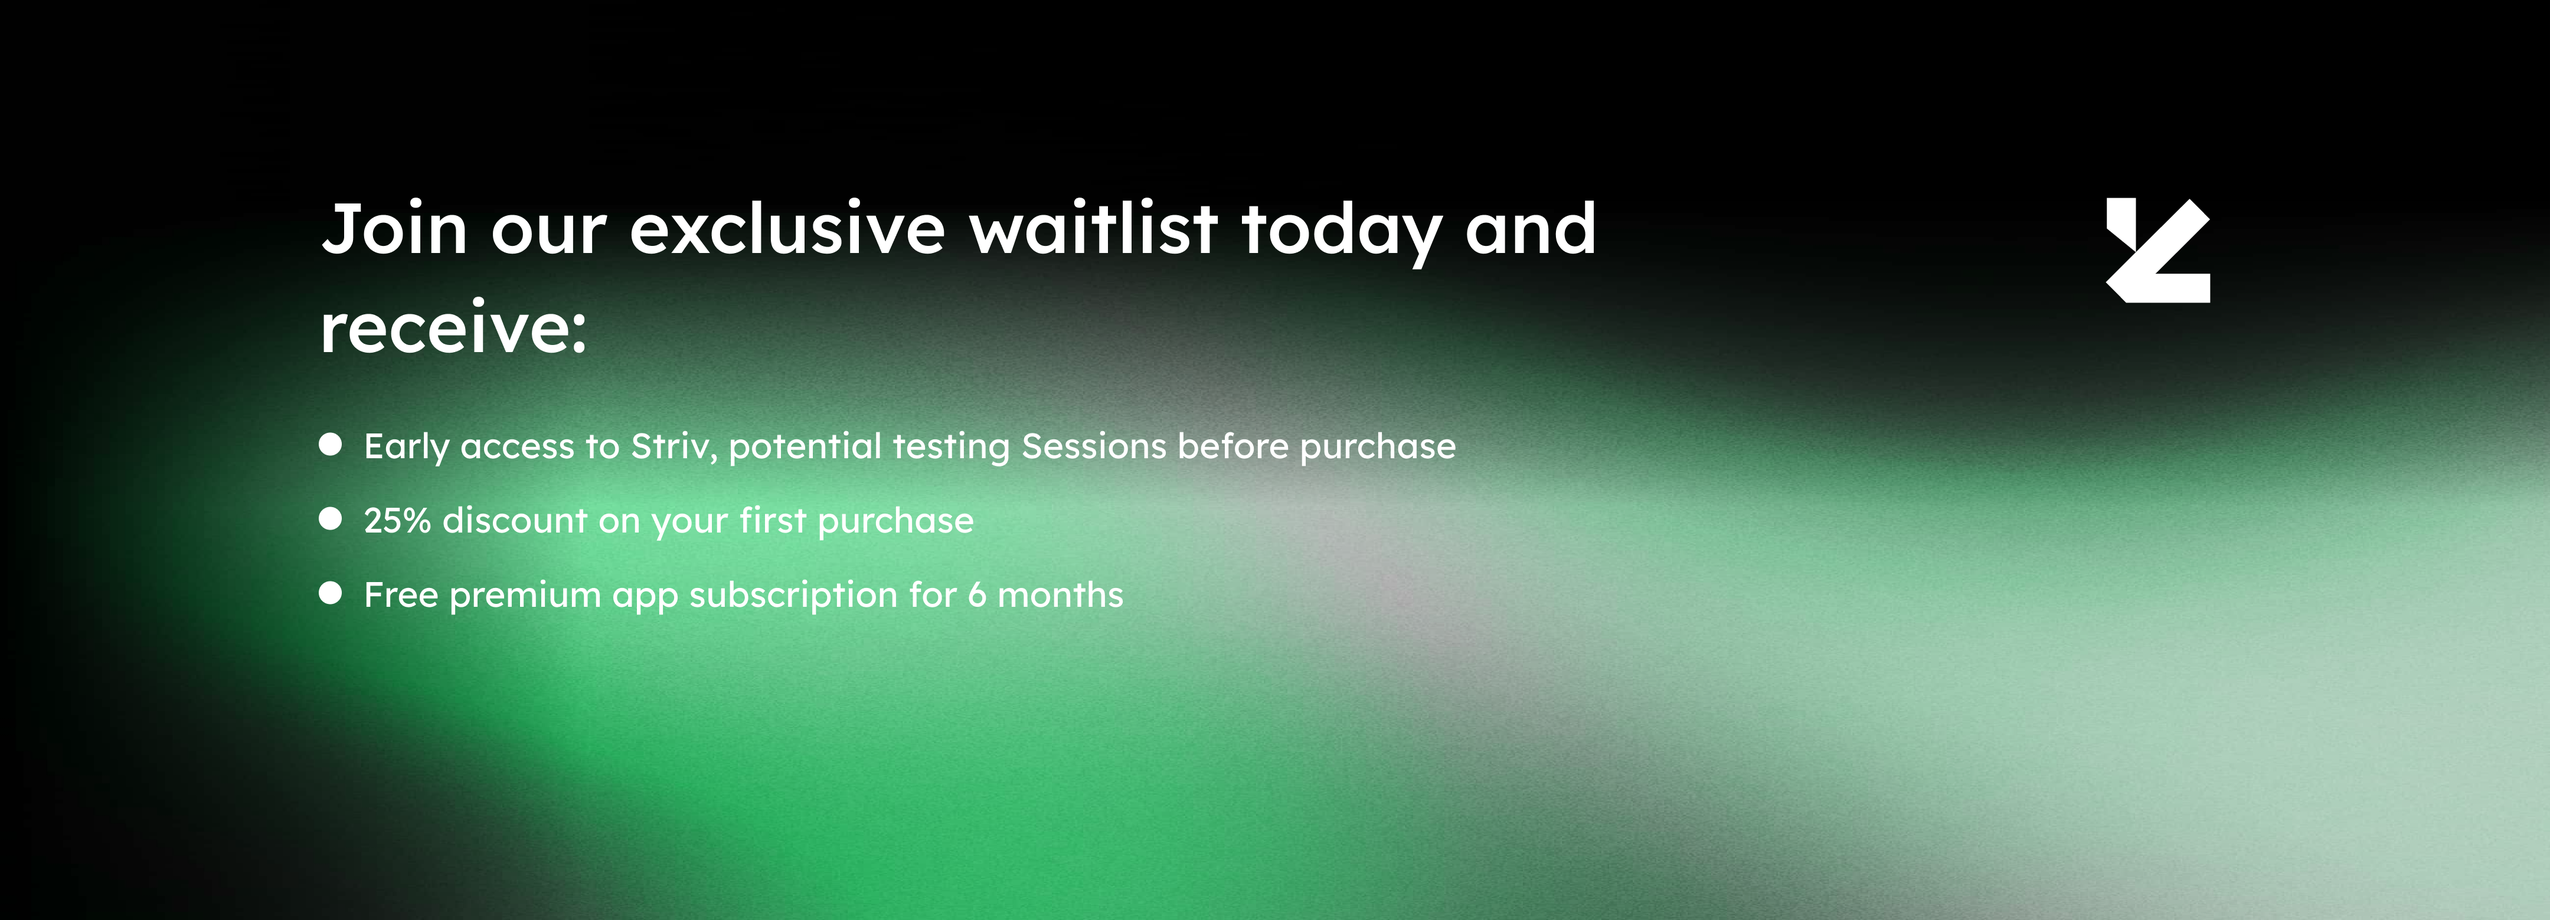
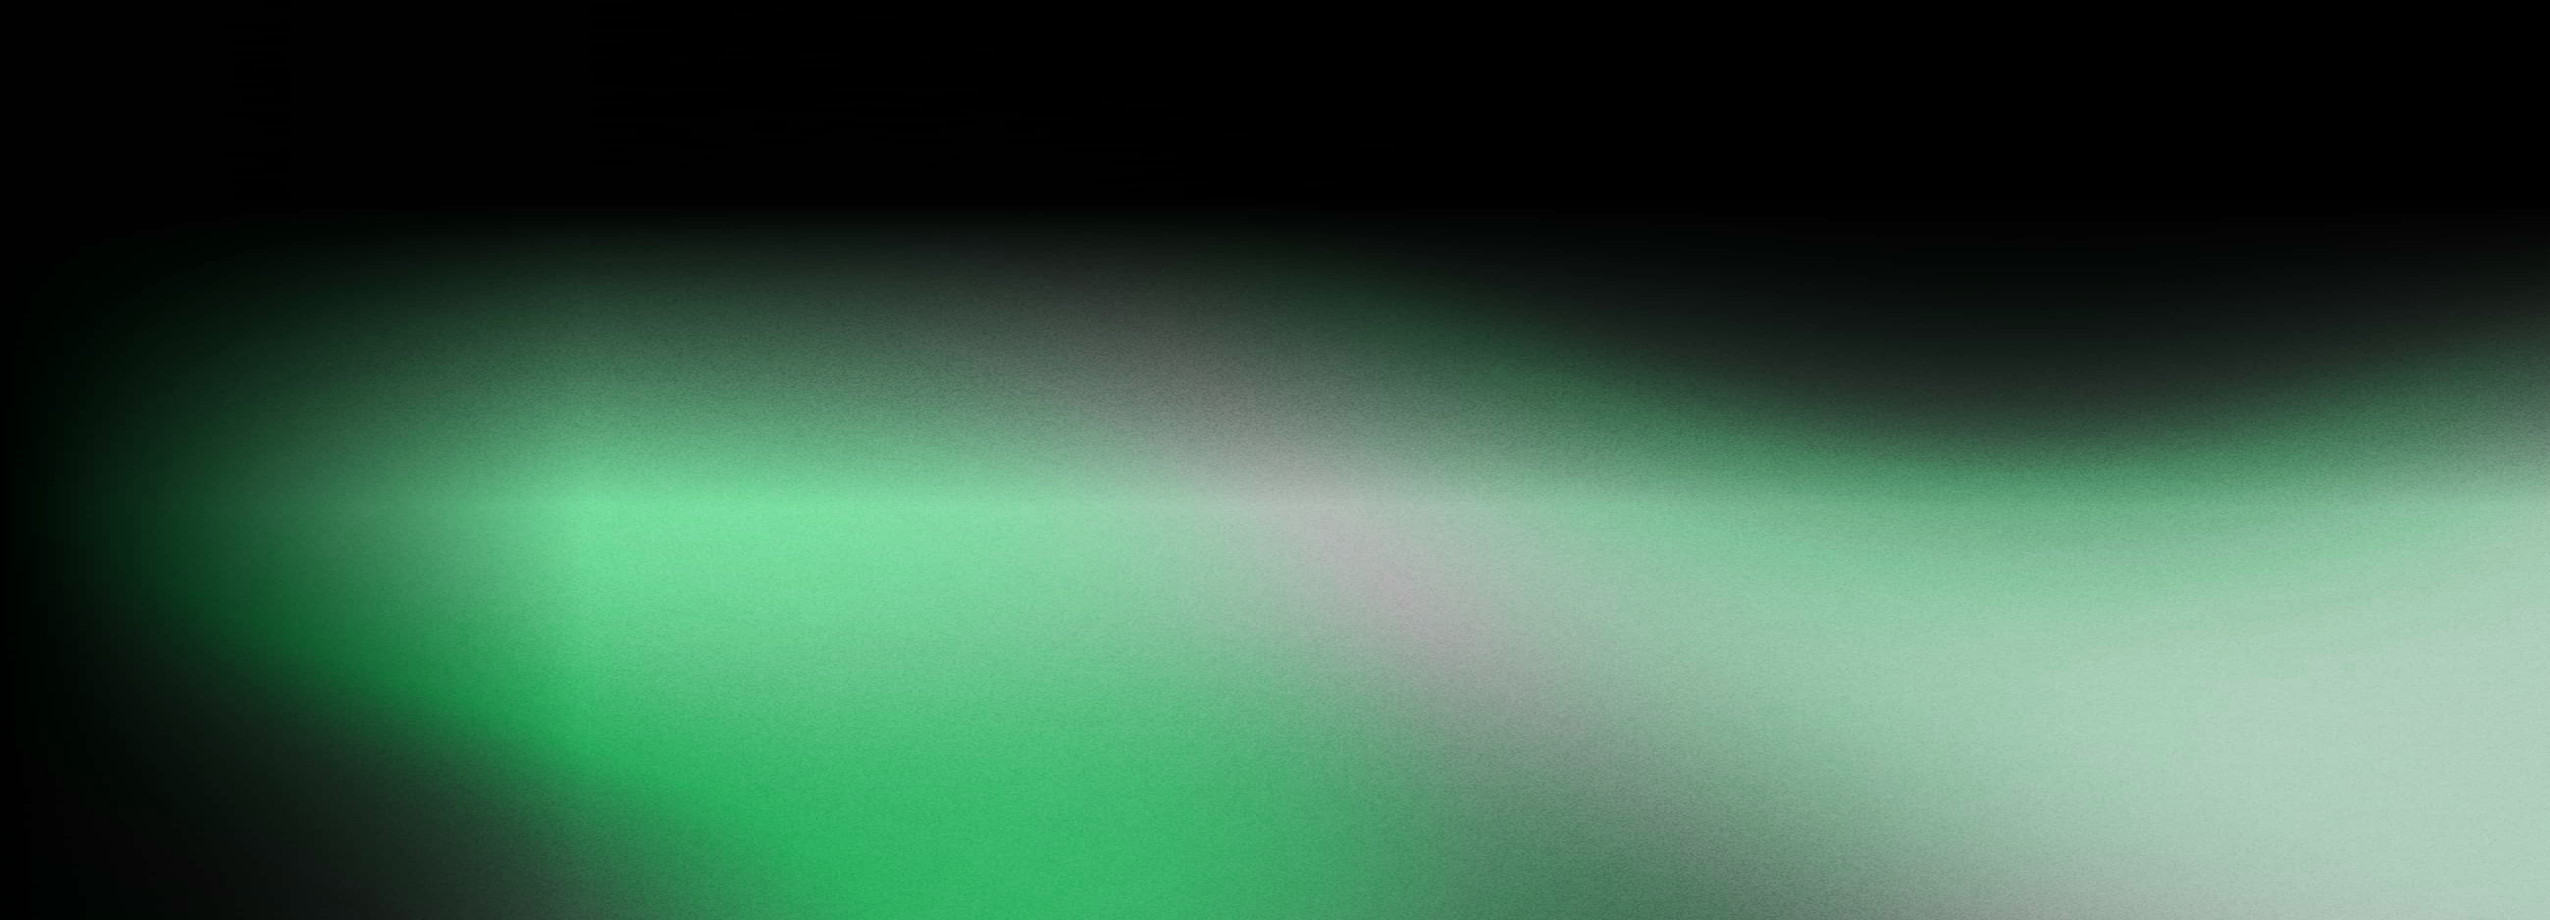
updated

diff --git a/index.html b/index.html
@@ -7,6 +7,7 @@
     <link rel="preconnect" href="https://fonts.googleapis.com">
     <link rel="preconnect" href="https://fonts.gstatic.com" crossorigin>
     <link rel="stylesheet" href="https://fonts.googleapis.com/css2?family=Lexend:wght@100..900&display=swap">
+    <link rel="stylesheet" href="https://fonts.googleapis.com/css2?family=Bai+Jamjuree:wght@400;700&display=swap">
     <title>Striv - Personal AI Running Coach</title>
     <script src="https://cdn.tailwindcss.com"></script>
     <script>
@@ -86,7 +87,51 @@
             }
         ]
         window.onload = ()=> {
-           
+            let windowWidth = window.innerWidth
+            let windowHeight = window.innerHeight
+            let isNotMobile = windowWidth > 640
+
+            const items = document.querySelectorAll('li[data-image]');
+            const displayImage = document.getElementById('displayImage');
+
+            items.forEach((item, index, arr)=> {
+                let arrowEl = item.getElementsByClassName('arrow')[0]        
+                if(isNotMobile) {
+                    arrowEl.className = `arrow h-9 w-9 mt-1 ${index ? 'hidden' : ''}`
+                    arrowEl.src = "assets/arrow-right-top-bold.svg"
+                } else {
+                    arrowEl.className = `arrow w-[13px] h-[13px] ${index ? 'hidden' : ''}`
+                    arrowEl.src = "assets/arrow-right-top.svg"
+                }
+                item.addEventListener('mouseover', () => {
+                    const imageName = item.getAttribute('data-image');
+                    displayImage.src = imageName;
+
+                    
+                    arr[0].getElementsByClassName('arrow')[0].classList.add('hidden');
+                    arr[0].getElementsByClassName('desc')[0].classList.add('hidden');
+                    item.getElementsByClassName('arrow')[0].classList.remove('hidden');
+                    item.getElementsByClassName('desc')[0].classList.remove('hidden');
+                });
+                item.addEventListener('mouseout', () => {
+                    item.getElementsByClassName('arrow')[0].classList.add('hidden');
+                    item.getElementsByClassName('desc')[0].classList.add('hidden');
+                    arr[0].getElementsByClassName('arrow')[0].classList.remove('hidden');
+                    arr[0].getElementsByClassName('desc')[0].classList.remove('hidden');
+                    
+                    displayImage.src = arr[0].getAttribute('data-image');
+                })
+            });
+
+            
+            
+            if (isNotMobile) {
+                let aspectRatio = 1.8
+                let maxWidth = windowHeight * 1.8
+                let rootEle = document.getElementById('root');
+                rootEle.style.maxWidth = maxWidth + 'px';
+            }
+        
             const listContainer = document.getElementById('faq-question-container');
             faqs.forEach((item, index) => {
                 const itemDiv = document.createElement('div');
@@ -194,7 +239,7 @@
             background: var(--green-37EC7F);
 
             color: #000;
-            font-family: "Bai Jamjuree";
+            font-family: "";
             font-size: 12px;
             font-style: normal;
             font-weight: 400;
@@ -219,6 +264,14 @@
             font-weight: 600;
             line-height: 140%; /* 78.4px */
             letter-spacing: -0.339px;
+        }
+        .text-40-lexend {
+            color: #FFF;
+            font-family: Lexend;
+            font-size: 40px;
+            font-style: normal;
+            font-weight: 500;
+            line-height: 140%; /* 56px */
         }
         .border-bottom-white {
             border-bottom: 0.281px solid #FFF;
@@ -287,23 +340,31 @@
             font-weight: 700;
             line-height: 140%;
         }
-        input {
-            background-color: transparent;
+        input.transparent {
+            background-color: transparent !important;
             border-bottom: 1px solid #FFF;
             padding: 20px 0px;
             font-family: Lexend;
             caret-color: white;
         }
-        input::placeholder {
+        input.transparent::placeholder {
             outline: none;
             color: white;
             font-size: 14px;
         }
-        input:focus {
+        input.transparent:active, input.transparent:focus {
             outline: none;
             font-size: 24px;
             color: white;
+            background-color: transparent !important;
         }
+        /* 针对自动填充的样式 */
+        input:-internal-autofill-previewed,
+        input:-internal-autofill-selected {
+            -webkit-text-fill-color: #FFFFFF !important;
+            transition: background-color 5000s ease-in-out 0s !important;
+        }
+
         .grid-col-3 {
             display: grid;
             grid-template-columns: 2fr 1fr;
@@ -368,18 +429,26 @@
         .toggle-btn {
            background: url(assets/plus-white.svg);
         }
+
+        .white-filter {
+            filter: invert(50%) brightness(200%);
+        }
+
+        .list-active {
+            font-weight: bold;
+        }
     </style>
 </head>
 <body>
-    <div class="root">
+    <div class="root" id="root">
         <div class="relative">
-            <img class="aspect-[0.95] sm:aspect-[1.8] sm:object-fill object-cover" src="./assets/section-0-bg.png">
-            <div class="left-8 sm:left-16 top-6 right-0 absolute">
+            <img class="aspect-[0.95] sm:aspect-[1.8] sm:object-fill object-cover " src="./assets/section-0-bg.png">
+            <div class="left-8 sm:left-[4.4%] top-[6.1%] right-0 absolute">
                 <div class="flex flex-row sm:h-16 items-center">
                     <img src="./assets/logo.svg" class="h-[15px] aspect-[1.25] sm:h-[27px]">
                     <img src="./assets/striv.svg" class="h-[12px] aspect-[3.72] ml-2 sm:h-[22px]">
                 </div>
-                <div class="mt-[30px] sm:mt-[100px] flex flex-col items-start">
+                <div class="mt-[30px] sm:mt-[7.5%] flex flex-col items-start">
                     <p class="text-14-lexend text-white sm:text-[34px]">Get elite-level coaching with every step</p>
                     <p class="uppercase text-28-lexend text-white sm:text-[56px]">Personal 
                         <br class="sm:hidden"> 
@@ -388,17 +457,16 @@
                         <br>
                         Just For you
                     </p>
-                    <button class="mt-[112px] join-btn sm:p-6 sm:rounded-[50px] sm:text-[20px]">
+                    <button class="mt-[10.1%] join-btn sm:p-6 sm:rounded-[50px] sm:text-[20px]">
                         Join the Waitlist Now
                     </button>
                 </div>
             </div>
         </div>
         <div class="flex flex-col items-start sm:flex-row my-10 sm:justify-between">
-            <p class="text-20-lexend mx-6">Get elite-level coaching with every run <br class="hidden sm:inline"> or ride. Striv brings professional <br class="hidden sm:inline"> training to your feet.</p>
-            <button class="mt-4 ml-6 ">
-                <img class="" src="./assets/arrow-right-bottom.svg">
-            </button>
+            <p class="text-20-lexend mx-6 sm:text-[40px]">Get elite-level coaching with every run <br class="hidden sm:inline"> or ride. Striv brings professional <br class="hidden sm:inline"> training to your feet.</p>
+            <img class="mt-4 ml-6 aspect-square w-[48px] sm:hidden" src="./assets/arrow-right-bottom.svg">
+            <img class="mt-4 ml-6 aspect-square w-[83px] sm:block hidden" src="./assets/arrow-left-bottom.svg">
         </div>
         <div class="mx-6 flex flex-row aspect-[1.3] sm:aspect-video justify-center items-center sm:px-[30px] sm:py-[34px]">
             <div class="h-full">
@@ -406,10 +474,10 @@
                     <img src="./assets/logo-fill-black-rounded.png" class="aspect-square w-[56px] sm:w-[116px]">
                 </div>
                 <div class="h-[4%] sm:h-[2%]"></div>
-                <div class="aspect-[0.74] h-[48%] sm:h-[49%] relative s2-container bg-color-green63 flex justify-center items-center sm:rounded-xl">
-                    <p class="absolute top-[10px] sm:top-[36px] text-12-lexend sm:text-2xl text-white">Multi-device <br> application</p>
-                    <img src="./assets/apple-watch.png" class="aspect-[0.6] w-[56px] sm:w-[135px] absolute bottom-[11px] sm:bottom-[36px]">
-                </div>
+                <img src="assets/multi-device-watch.png" class="aspect-[0.74] h-[48%] sm:h-[49%] relative s2-container bg-color-green63 flex justify-center items-center sm:rounded-xl">
+                    <!-- <p class="absolute top-[10px] sm:top-[36px] text-12-lexend sm:text-2xl text-white">Multi-device <br> application</p>
+                    <img src="./assets/apple-watch.png" class="aspect-[0.6] w-[56px] sm:w-[135px] absolute bottom-[11px] sm:bottom-[36px]"> -->
+                </img>
             </div>
             <div class="flex-1 h-full ml-[14px]">
                 <img src="./assets/strivinsole.png" alt="" class="aspect-[1.36] h-[67%] sm:h-[68%] object-fill rounded sm:rounded-xl">
@@ -430,31 +498,40 @@
             Features</p>
         <p class="text-64-lexend mt-12 mb-6 uppercase text-white hidden sm:block sm:mb-[160px] text-center">Revolutionary Technology</p>    
         <div class="flex sm:flex-row flex-col mx-6 sm:items-center">
-            <div class="text-color-white flex-1">
-                <div class="flex border-bottom-white py-3 group">
-                    <a class="no-underline hover:font-bold uppercase text-14-lexend text-left sm:text-[32px]">High Density  sensor</a>
-                    <!-- <img src="./assets/arrow-right-top.svg" class="h-[13px] w-[13px] sm:hidden"></img> -->
-                    <img src="./assets/arrow-right-top-bold.svg" class="h-9 w-9 sm:group-hover:block hidden mt-1"></img>
-                </div>
-                <div class="flex border-bottom-white py-3 group">
-                    <a class="no-underline hover:font-bold uppercase text-14-lexend text-left sm:text-[32px]">Multi-device</a>
-                    <!-- <img src="./assets/arrow-right-top.svg" class="h-[13px] w-[13px] sm:hidden"></img> -->
-                    <img src="./assets/arrow-right-top-bold.svg" class="h-9 w-9 sm:group-hover:block hidden mt-1"></img>
-                </div>
-                <div class="group border-bottom-white">
-                    <div class="flex py-3 flex-row">
-                        <a class="max-sm:flex-1 no-underline text-14-lexend uppercase text-left hover:font-bold sm:text-[32px]">AI Planning for u</a>
-                        <img src="./assets/arrow-right-top.svg" class="h-[13px] w-[13px] sm:hidden group-focus:block"></img>
-                        <img src="./assets/arrow-right-top-bold.svg" class="h-9 w-9 sm:group-hover:block hidden mt-1"></img>
+            <ul class="text-color-white flex-1">
+                <li data-image="assets/high-density-sensor.png" class="flex border-bottom-white group flex-col">
+                   <div class="flex flex-row py-3 ">
+                        <a class="max-sm:flex-1 no-underline hover:font-bold uppercase text-14-lexend text-left sm:text-[32px]">High Density  sensor</a>
+                        <!-- <img src="./assets/arrow-right-top.svg" class="h-[13px] w-[13px] sm:hidden"></img> -->
+                        <img class="arrow h-9 w-9 mt-1 "></img>
+                   </div>
+                   <p class="text-14-lexend text-left font-light pb-3 desc">
+                    Last mile or first mile, fibre or copper, Ethernet or wireless, 20Mbs or 100Gbs - we'll always find the best-performing connectivity to fit your needs and location.
+                    </p>
+                </>
+                <li data-image="assets/multi-device.png" class="flex flex-col border-bottom-white group">
+                    <div class="flex flex-row py-3 ">
+                        <a class="max-sm:flex-1 no-underline hover:font-bold uppercase text-14-lexend text-left sm:text-[32px]">Multi-device</a>
+                        <!-- <img src="./assets/arrow-right-top.svg" class="h-[13px] w-[13px] sm:hidden"></img> -->
+                        <img class="arrow h-9 w-9 mt-1 hidden"></img>
                     </div>
-                    <p class="text-14-lexend text-left font-light pb-3 sm:group-hover:block hidden max-sm:block">
+                    <p class="text-14-lexend text-left font-light pb-3 hidden desc">
                         Last mile or first mile, fibre or copper, Ethernet or wireless, 20Mbs or 100Gbs - we'll always find the best-performing connectivity to fit your needs and location.
                     </p>
-                </div>
-            </div>
+                </li>
+                <li data-image="assets/ai-planning-foru.png" class="group border-bottom-white">
+                    <div class="flex py-3 flex-row">
+                        <a class="max-sm:flex-1 no-underline text-14-lexend uppercase text-left hover:font-bold sm:text-[32px]">AI Planning for u</a>
+                        <img class="arrow h-9 w-9 mt-1 hidden"></img>
+                    </div>
+                    <p class="text-14-lexend text-left font-light pb-3 hidden desc">
+                        Last mile or first mile, fibre or copper, Ethernet or wireless, 20Mbs or 100Gbs - we'll always find the best-performing connectivity to fit your needs and location.
+                    </p>
+                </li>
+            </ul>
             <p class="w-[20px] sm:w-[72px]"></p>
             <img class="aspect-[1.1] sm:hidden mt-5 sm:mt-0" src="./assets/s3-right.png">
-            <img class="aspect-[1.3] h-[555px] hidden sm:block" src="./assets/s3-right-xl.png">
+            <img id="displayImage" class="aspect-[1.3] w-[48%] hidden sm:block" src="assets/high-density-sensor.png">
         </div>    
         <div class="flex flex-row sm:justify-between items-center mx-6 justify-center sm:mt-[180px]">
             <p class="text-24-lexend mt-12 mb-6 uppercase text-white sm:text-[64px] sm:pb-[28px]">How it works</p>
@@ -463,24 +540,24 @@
         <div class=" mx-6 sm:grid sm:grid-cols-[2fr_1fr]">
             <div class="flex flex-row">
                 <div class="bg-color-black08 flex flex-col items-start">
-                    <p class="text-color-green text-12-lexend px-3  mt-3" style="line-height: 30px;">Easy to Use</p>
-                    <p class="sm:mb-[50px] px-3 text-white opacity-[0.65] mb-[14px] text-12-lexend font-normal text-left">Insert smart insoles into your shoes， attach charging pod on top of shoes (easily magnetically attached))</p>
-                    <img src="./assets/section-4-0.png" class="aspect-[1.5]">
+                    <p class="text-color-green text-12-lexend px-3  mt-3 mb-2 sm:pr-[9%] sm:pl-[12%] pt-[7.5%]">Easy to Use</p>
+                    <p class="sm:mb-[50px] px-3 text-white opacity-[0.65] mb-[14px] text-12-lexend font-normal text-left flex-1 sm:pr-[9%] sm:pl-[12%]">Insert smart insoles into your shoes， attach charging pod on top of shoes (easily magnetically attached)</p>
+                    <img src="./assets/section-4-0.png" class="aspect-[1.23]">
                 </div>
                 <!-- <div class="w-[11px] sm:w-[25px]"></div> -->
-                <div class="bg-color-black08 flex flex-col items-start ml-[11px] sm:ml-[25px]">
-                    <p class="text-color-green text-12-lexend px-3 mt-3" style="line-height: 30px;">Easy to Use</p>
-                    <p class="sm:mb-[50px] px-3 text-white opacity-[0.65] mb-[14px] text-12-lexend font-normal text-left">Insert smart insoles into your shoes， attach charging pod on top of shoes (easily magnetically attached))</p>
-                    <img src="./assets/section-4-1.png" class="aspect-[1.5]">
+                <div class="bg-color-black08 flex flex-col items-start ml-[11px] sm:ml-[25px] ">
+                    <p class="text-color-green text-12-lexend px-3 mt-3 text-start mb-2 sm:pr-[9%] sm:pl-[12%]  pt-[7.5%]" >Connect to our easy-to-use app</p>
+                    <p class="flex-1 sm:mb-[50px] px-3 text-white opacity-[0.65] mb-[14px] text-12-lexend font-normal text-left sm:pr-[9%] sm:pl-[12%]">Insert smart insoles into your shoes， attach charging pod on top of shoes (easily magnetically attached)</p>
+                    <img src="./assets/section-4-1.png" class="aspect-[1.23]">
                 </div>
             </div>
             <div class="bg-color-black08 flex flex-row mt-[26px] sm:mt-0 sm:flex-col sm:ml-[25px]">
                 <div class="flex flex-col items-start flex-1">
-                    <p class="text-color-green text-12-lexend px-3 mt-5 mb-2 text-start">Start your run or ride and 
+                    <p class="text-color-green text-12-lexend px-3 mt-5 mb-2 text-start sm:pr-[9%] sm:pl-[12%]  pt-[7.5%]">Start your run or ride and 
                         Receive real-time audio coaching</p>
-                    <p class="sm:mb-[50px] px-3 text-12-lexend font-normal text-left text-white opacity-[0.65] mb-[14px]">Insert smart insoles into your shoes， attach charging pod on top of shoes (easily magnetically attached))</p>
+                    <p class="sm:mb-[50px] px-3 text-12-lexend font-normal text-left text-white opacity-[0.65] mb-[14px] sm:pr-[9%] sm:pl-[12%]">Insert smart insoles into your shoes， attach charging pod on top of shoes (easily magnetically attached)</p>
                 </div>
-                <img src="./assets/section-4.png" class="aspect-[0.9] h-[180px] sm:aspect-[1.5] sm:h-full">
+                <img src="./assets/section-4.png" class="aspect-[0.9] h-[180px] sm:aspect-[1.19] sm:h-full">
             </div>
         </div>
         <div class="sm:mt-[180px] sm:mb-[132px] mb-6 mx-6 flex flex-row sm:justify-between justify-center">
@@ -563,12 +640,24 @@
             </div> 
         </div>
         <div class="mt-12 bg-color-black22 relative">
-            <img src="./assets/section-6-lg.png" class="hidden sm:block">
+            <img src="./assets/section-6-lg.png" class="hidden sm:block aspect-[2.77] h-screen object-fill">
             <img src="./assets/section-6.png" class="sm:hidden">
+            <div class="hidden sm:block absolute left-[12.5%] top-0 right-0">
+                <div class="aspect-[5.5] "></div>
+                <div class="pb-6 flex flex-row items-start justify-between mr-[12.5%]">
+                    <p class="text-40-lexend ">Join our exclusive waitlist today and<br> receive:</p>
+                    <img src="./assets/arrow-left-bottom.svg" class="w-[83px] aspect-square white-filter">
+                </div>
+                <list class="list-inside text-20-lexend">
+                    <li>Early access to Striv, potential testing Sessions before purchase</li>
+                    <li class="py-3">25% discount on your first purchase</li>
+                    <li>Free premium app subscription for 6 months</li>
+                </list>
+            </div>
             <form action="https://run.us13.list-manage.com/subscribe/post?u=1a4454a27524c9bc932d713ea&amp;id=4f1f571fa7&amp;f_id=006102e9f0" 
                 method="post" id="mc-embedded-subscribe-form" name="mc-embedded-subscribe-form" target="_blank"
-             class="sm:pb-[22px] sm:ml-[11%] sm:w-[40%] h-[180px] absolute bottom-0 left-0 right-0 flex flex-row justify-center sm:items-end items-center px-6">
-                <input type="email" name="EMAIL" id="mce-EMAIL" required="" value="" class="flex-1 h-[58px] sm:placeholder:text-[18px] text-white" placeholder="Enter Your Email Here">
+             class="sm:pb-[4%] sm:ml-[11%] sm:w-[40%] h-[180px] absolute bottom-0 left-0 right-0 flex flex-row justify-center sm:items-end items-center px-6">
+                <input type="email" name="EMAIL" id="mce-EMAIL" class="transparent flex-1 h-[58px] sm:placeholder:text-[18px] text-white bg-transparent " placeholder="Enter Your Email Here">
                 <button class="subscribe-btn ml-3 sm:ml-[38px] uppercase">
                     <p class="text-12-lexend text-color-green px-3 py-[6px] sm:text-[15px] sm:py-[15px] sm:px-[54px]">Get Notified</p>
                 </button>
